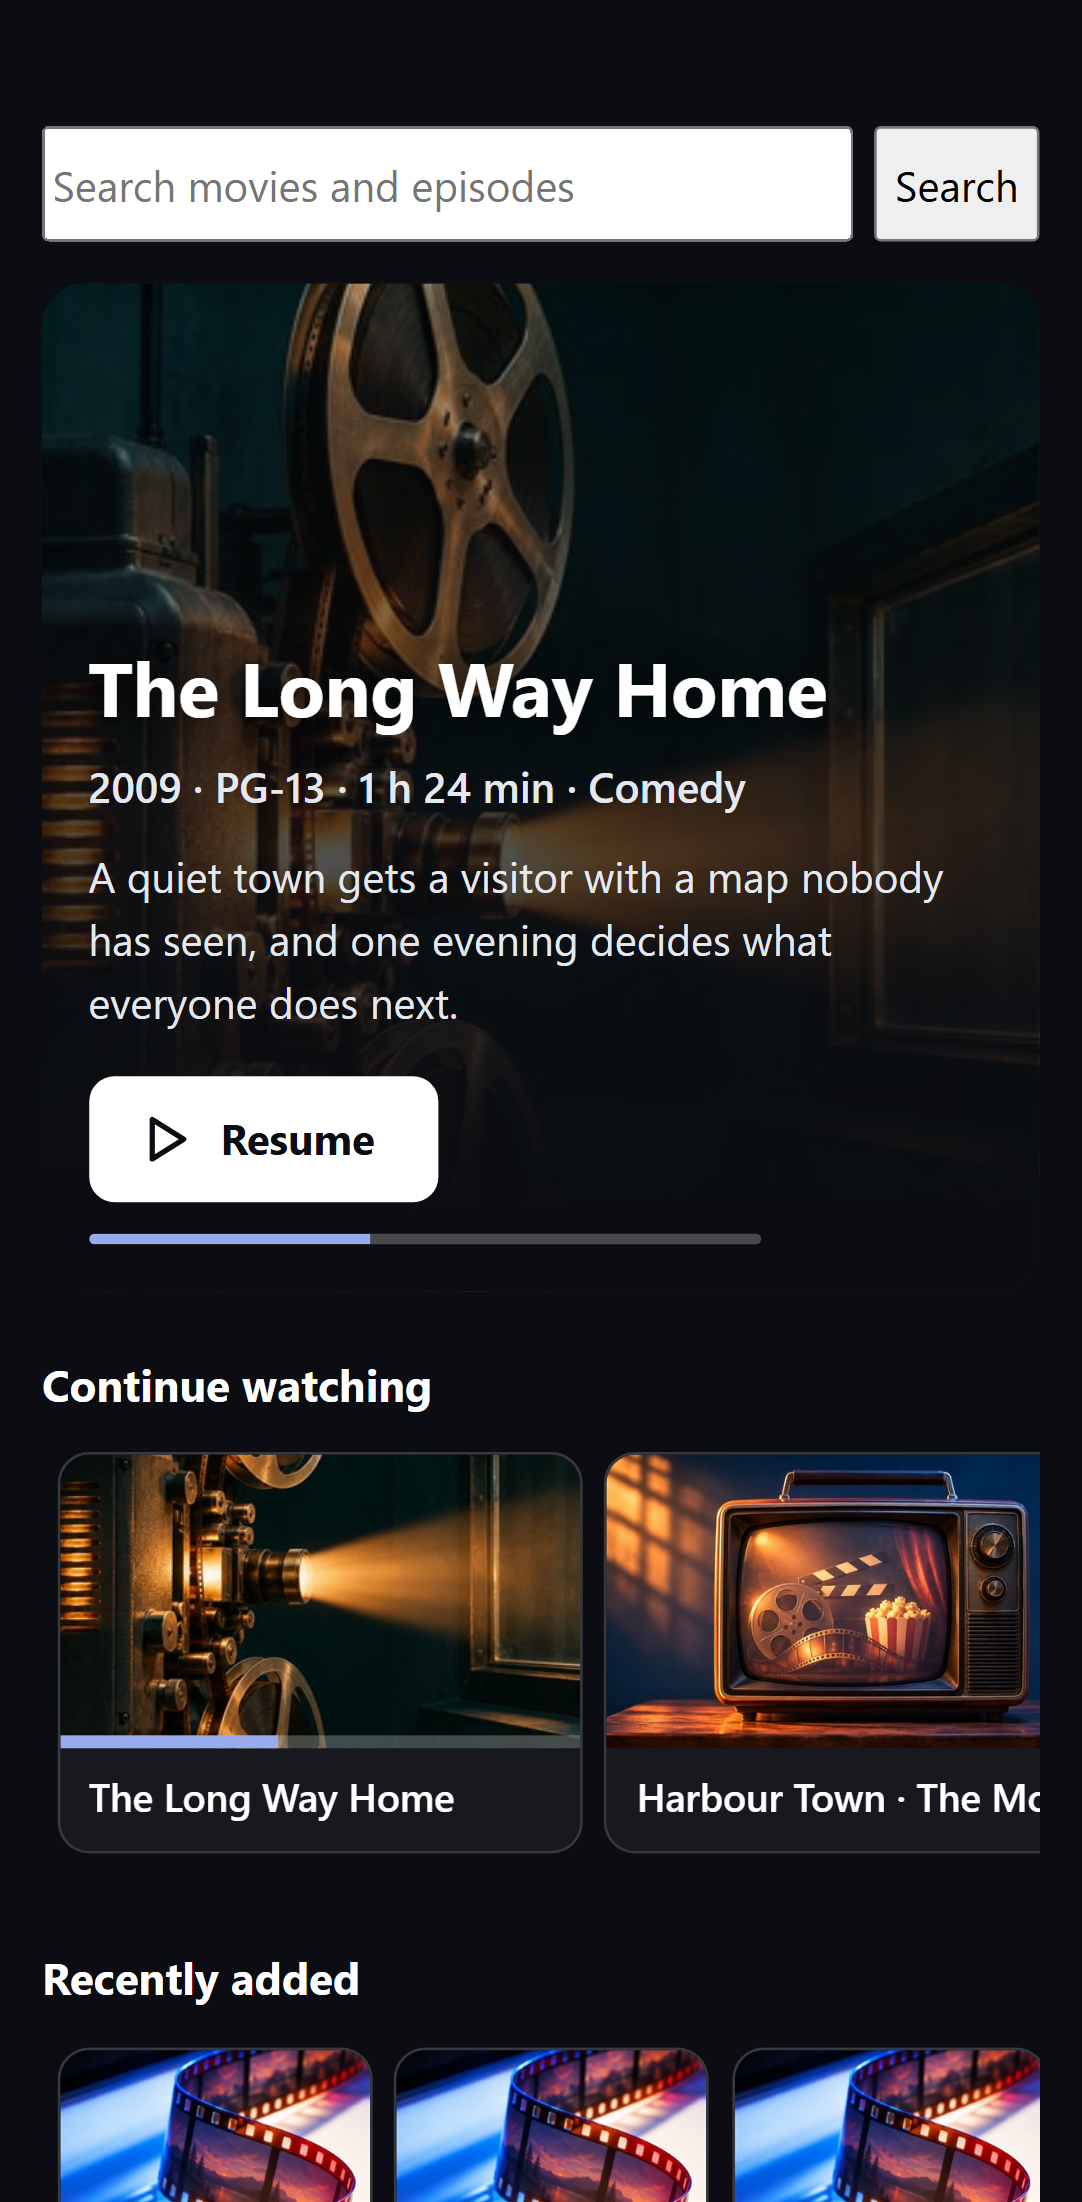
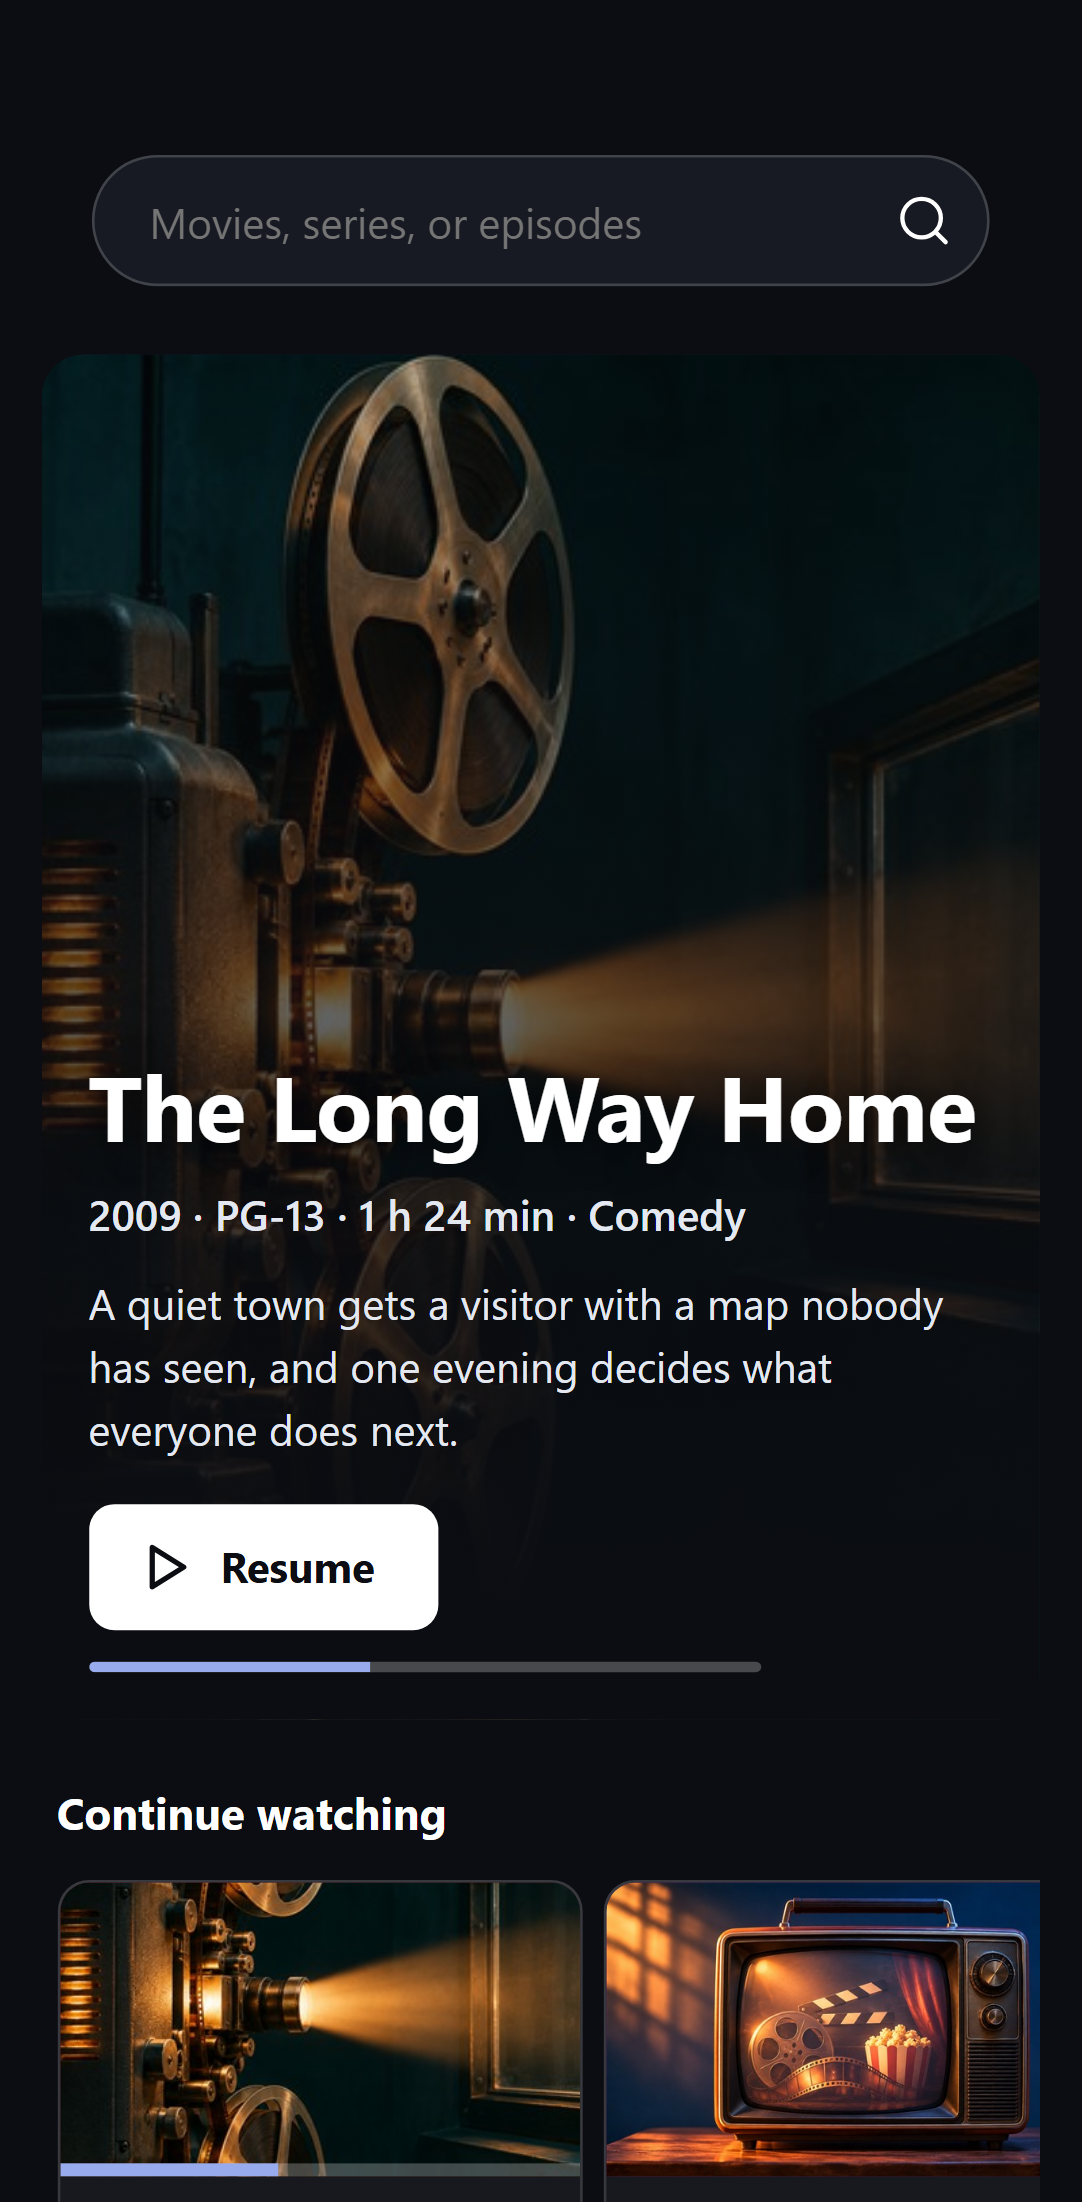
Movies: title left and search pill right in the pinned band, larger billboard title

diff --git a/clients/FamilyHub.App/wwwroot/movies.css b/clients/FamilyHub.App/wwwroot/movies.css
@@ -616,3 +616,16 @@ li.movie-release[data-tier="4k-bluray"] { border-color: #ba7bcb66; }
     .movie-source-note.is-checking, .movie-source-note.is-checking::before,
     .movie-search-results .movie-card-with-details, .movie-search-results .movie-card, .movie-releases .movie-release, .movie-external .movie-release { animation: none; }
 }
+
+/* Billboard layout: the title sits left in the pinned band and the search pill sits right, widening when used. */
+.movie-library .movie-toolbar { max-width: none; display: flex; flex-wrap: nowrap; align-items: center; gap: 1rem; padding: .7rem 1.2rem .6rem; margin-bottom: 1rem; }
+.movie-library .movie-toolbar::before { content: "Movies"; margin-right: auto; font-size: 1.4rem; font-weight: 800; letter-spacing: -.01em; }
+.movie-library .movie-toolbar .movie-search { flex: 0 1 20rem; width: auto; margin: 0; transition: flex-basis .3s cubic-bezier(.2, .7, .2, 1); }
+.movie-library .movie-toolbar .movie-search:is(:focus-within, :has(input:not(:placeholder-shown))) { flex-basis: 34rem; }
+.movie-library .movie-hero { min-height: clamp(22rem, 62vh, 44rem); }
+.movie-hero-title { font-size: clamp(2.2rem, 5.2vw, 4.4rem); letter-spacing: -.01em; }
+@media (max-width: 640px) {
+    .movie-library .movie-toolbar::before { display: none; }
+    .movie-library .movie-toolbar .movie-search { flex: 1 1 100%; }
+}
+@media (prefers-reduced-motion: reduce) { .movie-library .movie-toolbar .movie-search { transition: none; } }
